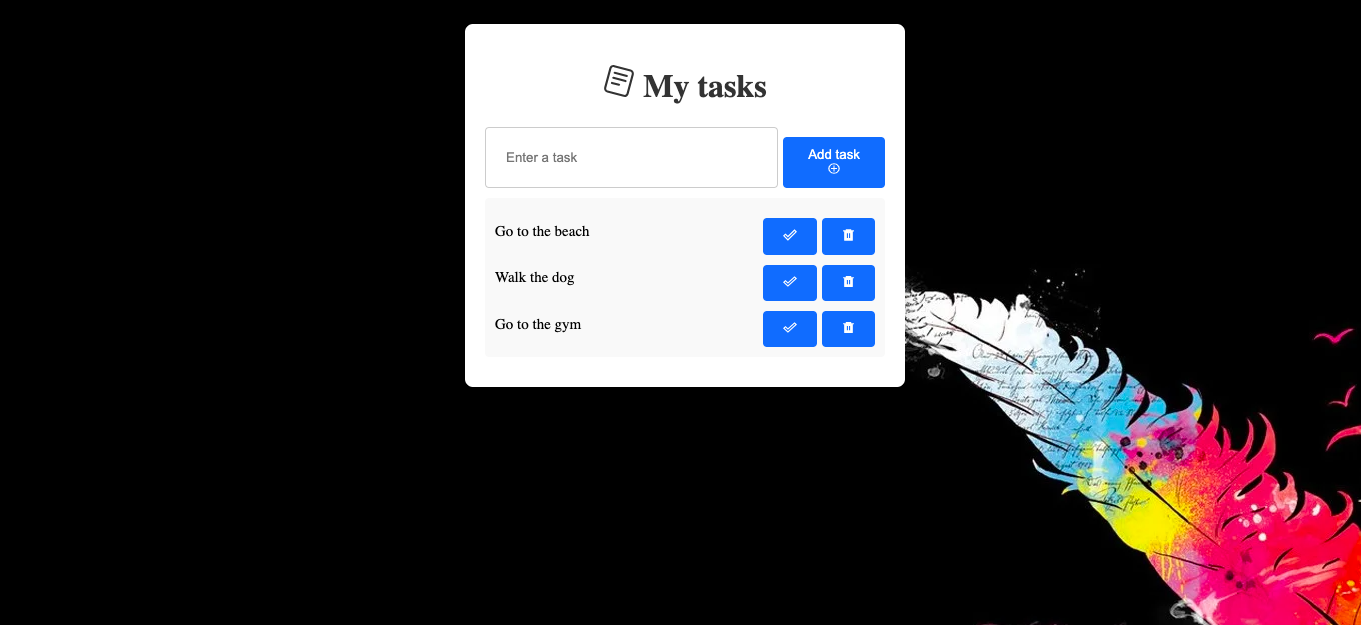
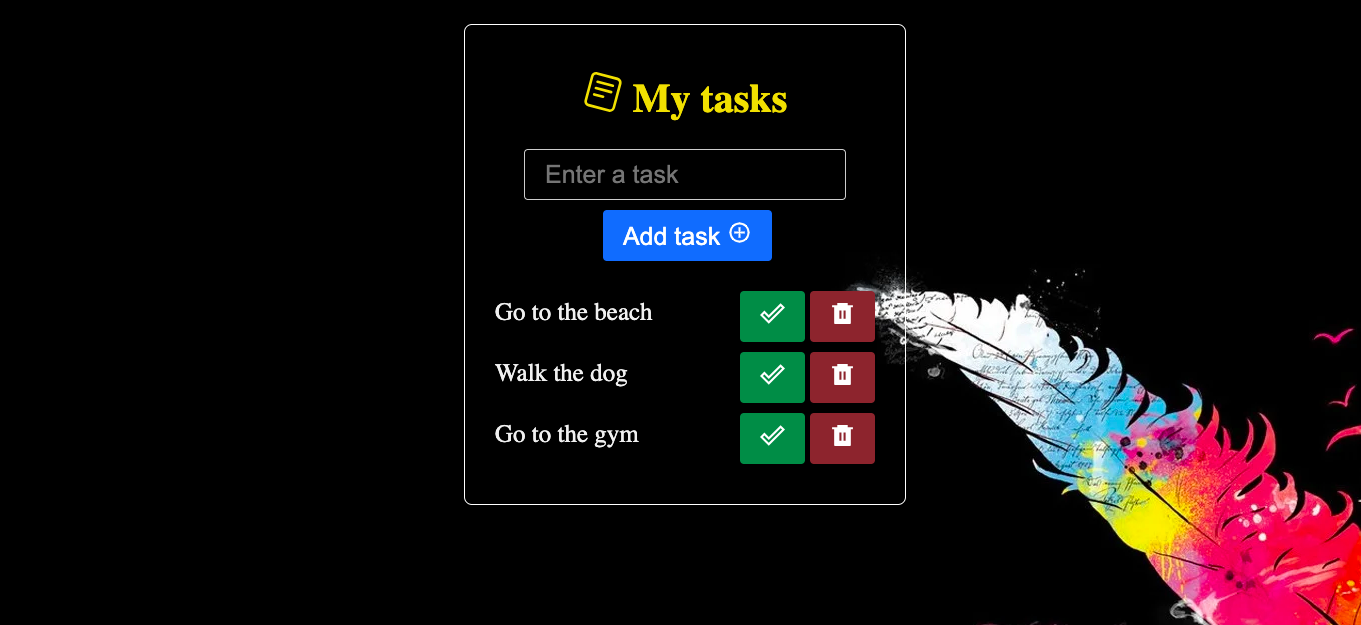
hover effects added

Changed region(s): [[0.3395, 0.0304, 0.6789, 0.76], [0.3703, 0.6688, 0.4629, 0.7296]]

diff --git a/src/App.css b/src/App.css
@@ -74,6 +74,15 @@ button {
 
 /* Style the buttons in the task list */
 
+.complete-btn:hover {
+    background-color: #0df17f;
+}
+
+.delete-btn:hover {
+    background-color: rgb(255, 11, 11);
+}
+
+
 .complete-btn {
     background-color: #068545;
 }
